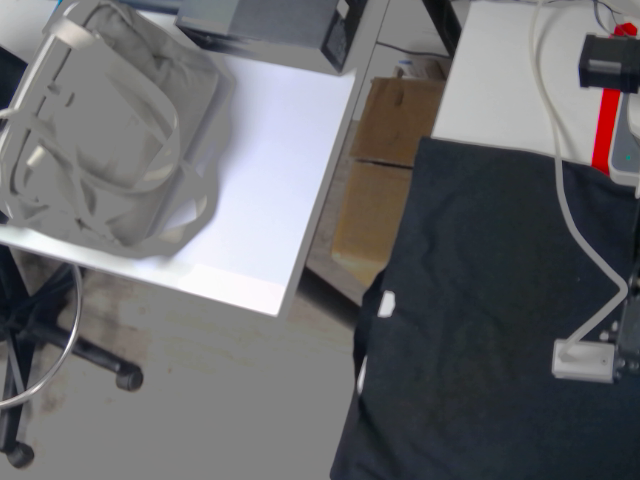
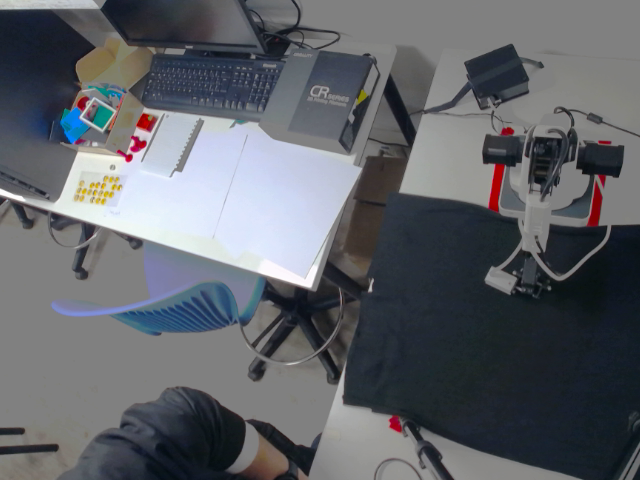
wa

diff --git a/src/model/Test_knn.py b/src/model/Test_knn.py
@@ -269,6 +269,8 @@ def ejecutar_knn_sin_pca(RUTA_TABLERO):
         dist_threshold=res_sin_pca['dist_threshold']
     )
     
+    print(detecciones_agrupadas)
+    
     return detecciones_agrupadas
 
 # ============================================================